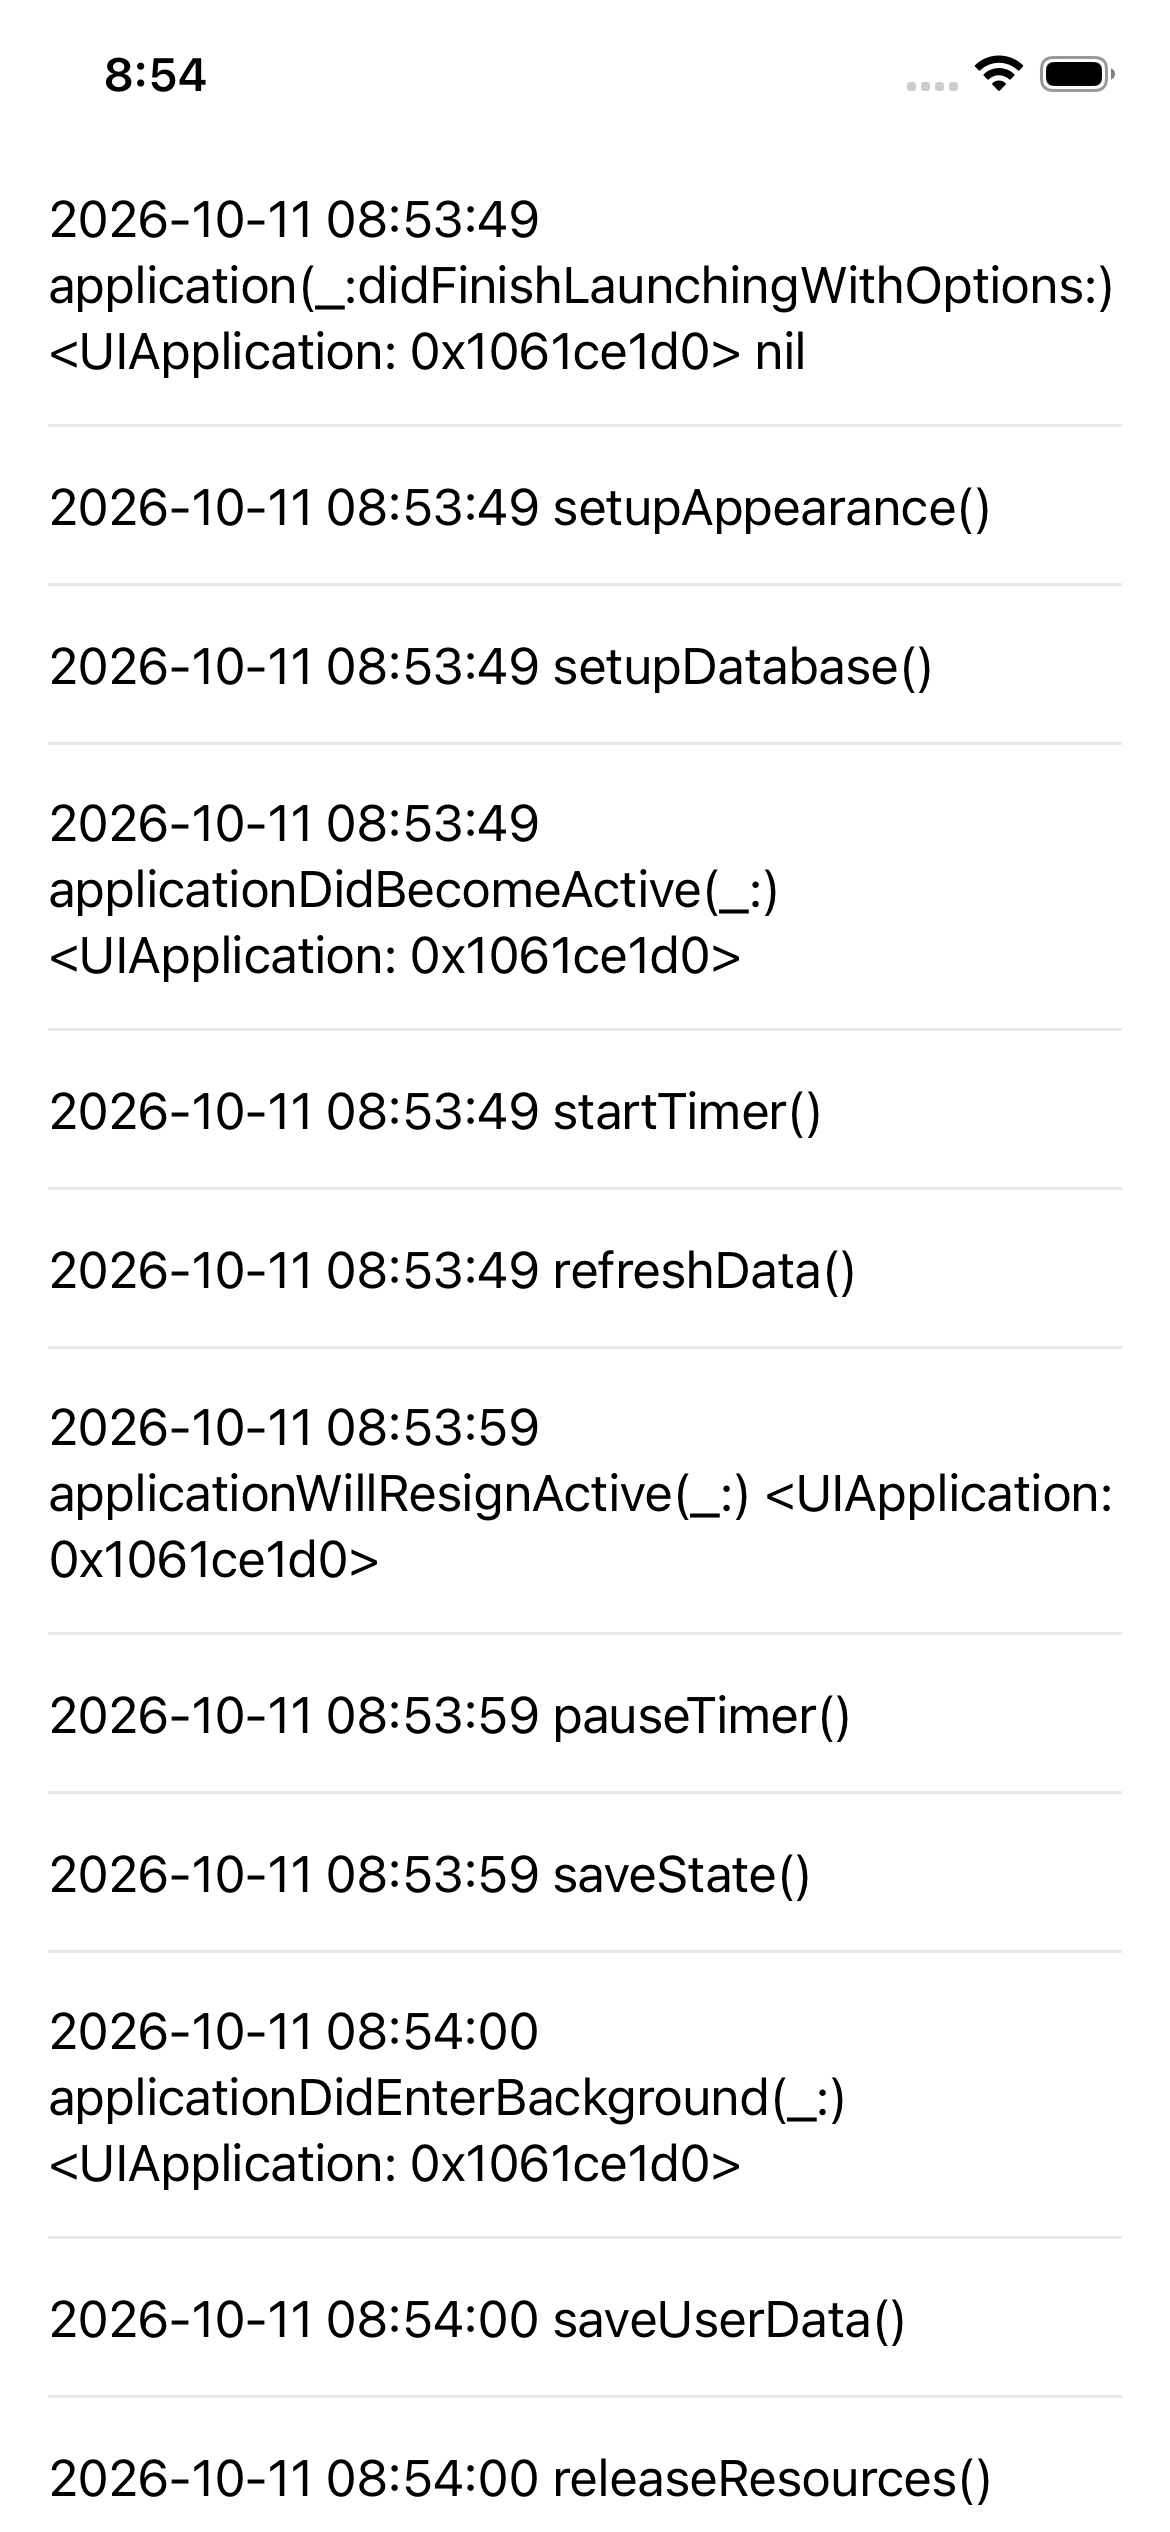
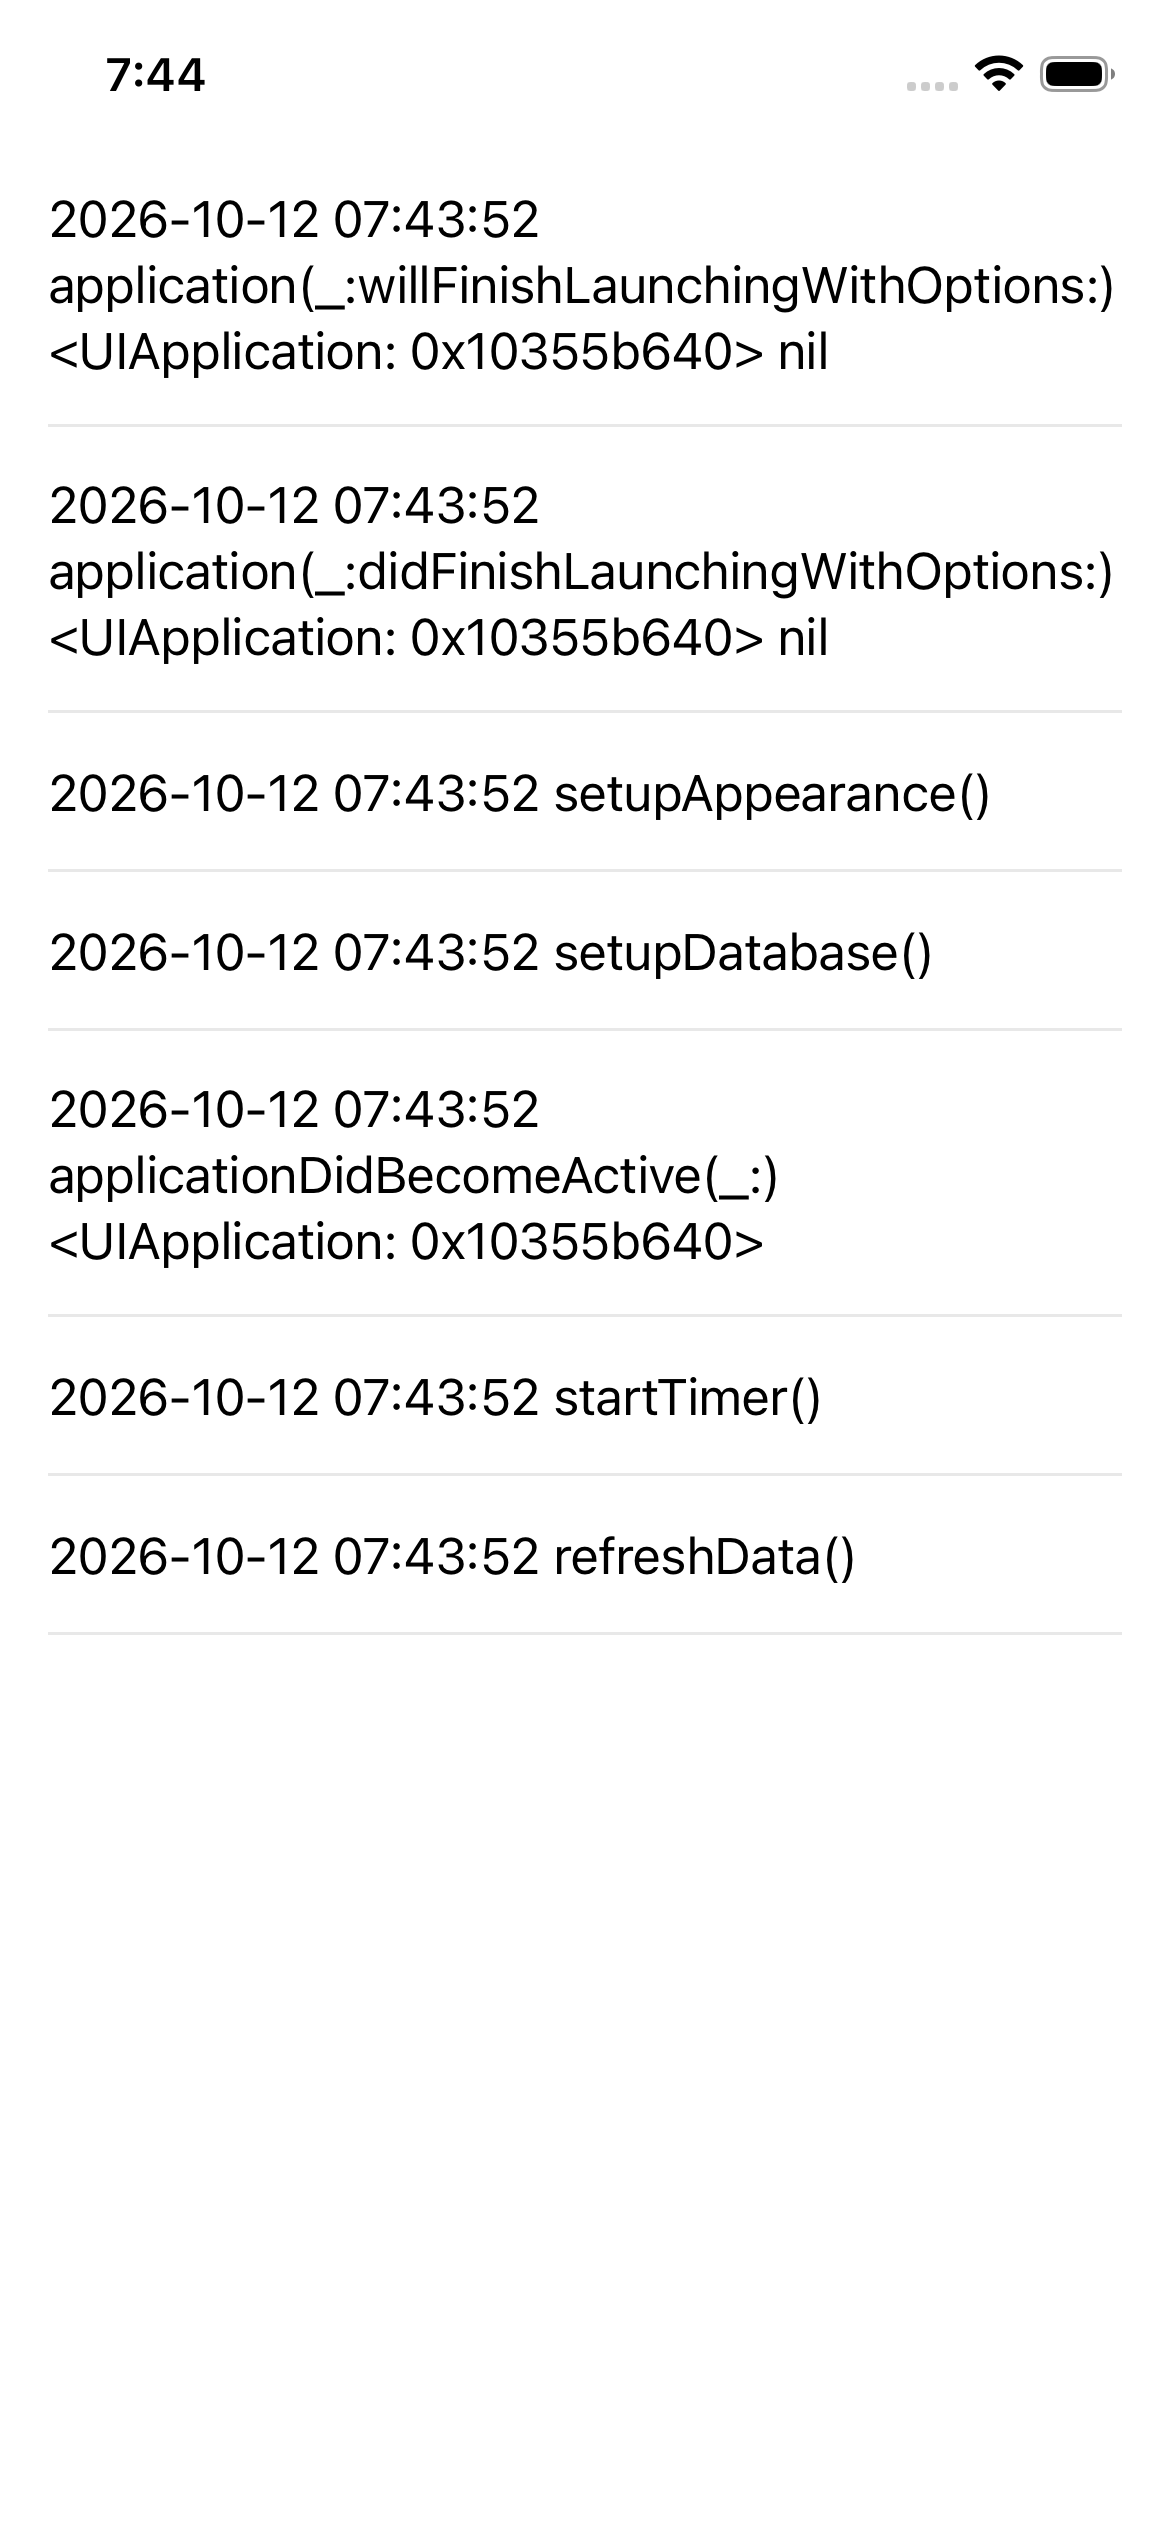
AppDelegateMethods: remove Main.storyboard

diff --git a/iOSBasics/iOSAppLifecycle/AppDelegateMethods/AppDelegateMethods/AppDelegate.swift b/iOSBasics/iOSAppLifecycle/AppDelegateMethods/AppDelegateMethods/AppDelegate.swift
@@ -14,6 +14,11 @@ class AppDelegate: UIResponder, UIApplicationDelegate {
     var window: UIWindow?
 
     // 1. App is about to launch
+    func application(_ application: UIApplication, willFinishLaunchingWithOptions launchOptions: [UIApplication.LaunchOptionsKey : Any]? = nil) -> Bool {
+        log(application, launchOptions as Any)
+        return true
+    }
+    
     func application(_ application: UIApplication, didFinishLaunchingWithOptions launchOptions: [UIApplication.LaunchOptionsKey: Any]?) -> Bool {
         log(application, launchOptions as Any)
         // Initialize app-wide resources
@@ -77,7 +82,14 @@ class AppDelegate: UIResponder, UIApplicationDelegate {
     }
 
     // Supporting methods
-    private func setupAppearance() { log() }
+    private func setupAppearance() {
+        log()
+        let window = UIWindow(frame: UIScreen.main.bounds)
+        window.rootViewController = ViewController()
+        window.makeKeyAndVisible()
+        self.window = window
+    }
+    
     private func setupDatabase() { log() }
     private func startTimer() { log() }
     private func refreshData() { log() }
